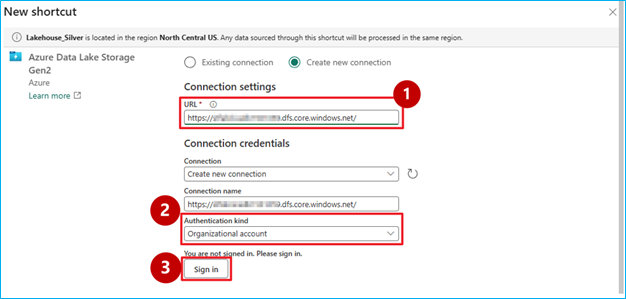
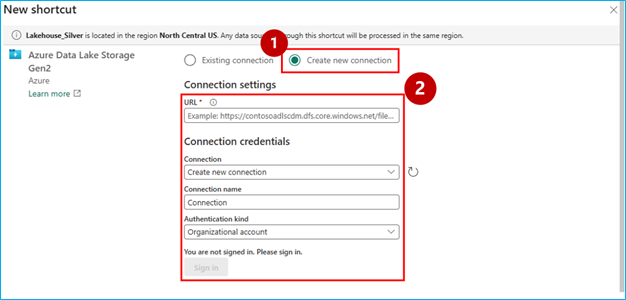
commit

Changed region(s): [[0.0, 0.0903, 0.7588, 0.9632], [0.9712, 0.0, 1.0, 0.9933], [0.0, 0.0, 0.1214, 0.0602]]

diff --git a/exercise1.md b/exercise1.md
@@ -129,19 +129,15 @@ Now, this is something exciting! This section shows how easy it is to create Sho
 
 5. In the screen below, we need to enter the connection details for the ADLS Gen2 shortcut.
 
-![task-1.3-ext-shortcut11.png](media/labMedia/task-1.3-ext-shortcut11.png)
+![shortcut111.png](media/labMedia/task-1.3-ext-shortcut-11.png)
 
 6. 6.Copy the **Data Lake Storage endpoint**: **<inject key= "storageEndpoint" enableCopy="true"/>** and paste it into the **URL** field.
 
 8. Select **Organization account** in the **Authentication Kind**, and then click on **Sign in**.
 
-9. In the **Account key** field enter +++@lab.Variable(storageaccountkey)+++
-
->**Note:** Wait for the **Account Key** to populate. The cursor will start blinking.
-
 9. Click on **Next** button.
 
-![task-1.3-ext-shortcut-9.png](media/labMedia/f40.png)
+![shortcut111.png](media/labMedia/task-1.3-ext-shortcut-111.png)
 
 9. Select the **data** and **litwaredata** checkbox and then click on the **Next** button.
 
@@ -339,7 +335,7 @@ You will experience how easy it is to use Fast Copy to transform 100M rows of Li
 
 ![](media/58.png)
 
-17. Expand the workspace **ContosoSales@lab.LabInstance.Id**, and select **lakehouse**.
+17. Expand the workspace **<inject key= "WorkspaceName" enableCopy="true"/>**, and select **lakehouse**.
 
 18. Enter the table name as **sales_data_updated** and then click on the **Next** button.
 
@@ -357,7 +353,7 @@ Congrats on completing this data transformation exercise!
 
 Now let's use Copilot in Data pipeline to leverage the data transformation activities.
 
-1. Click on the **ContosoSales@lab.LabInstance.Id** worspace at the **left** pane of the screen, then click on **New item** button.
+1. Click on the **<inject key= "WorkspaceName" enableCopy="true"/>** worspace at the **left** pane of the screen, then click on **New item** button.
 
 ![task_1.4.1.png](media/labMedia/task_1.4.1.png)
 
